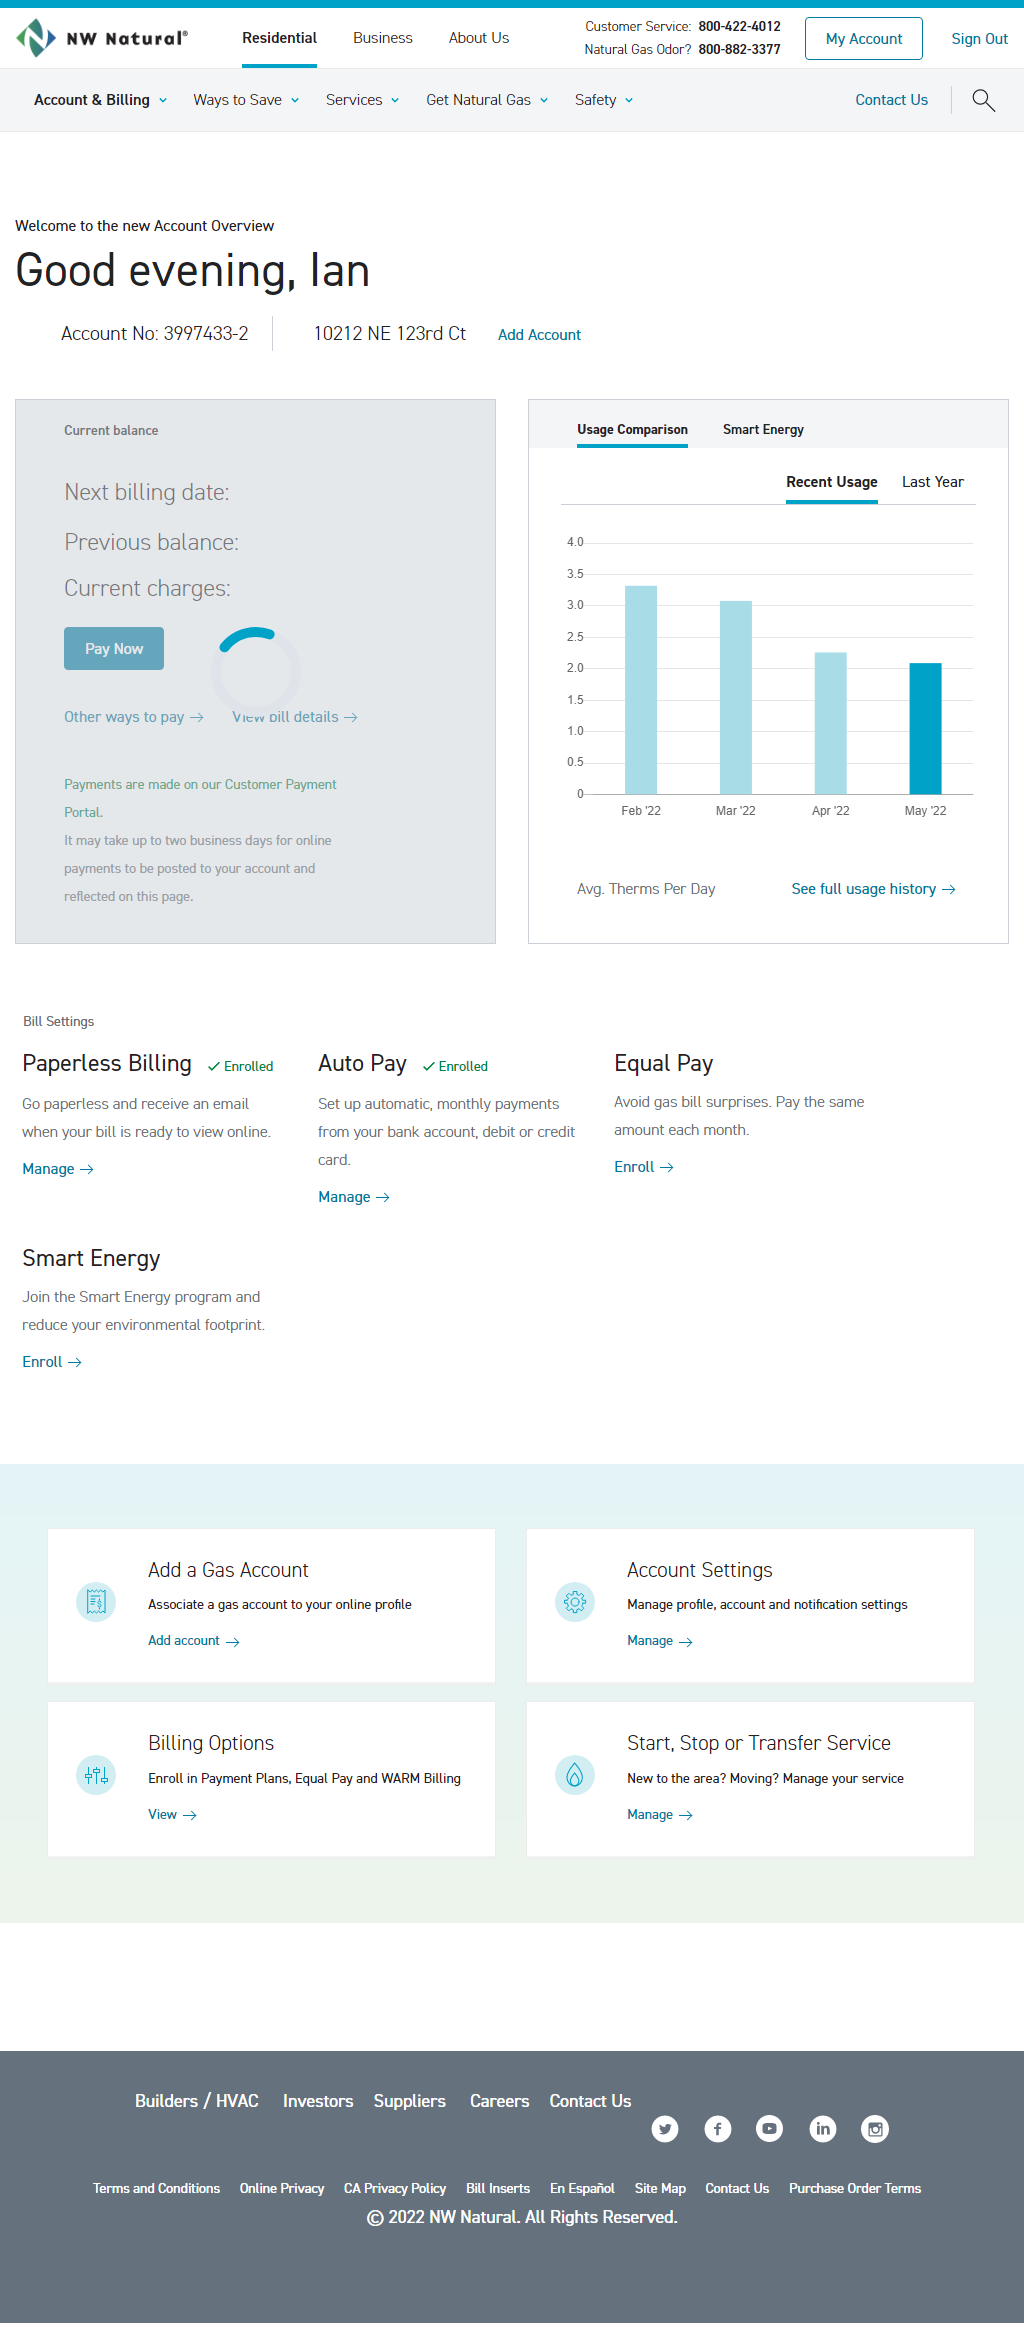
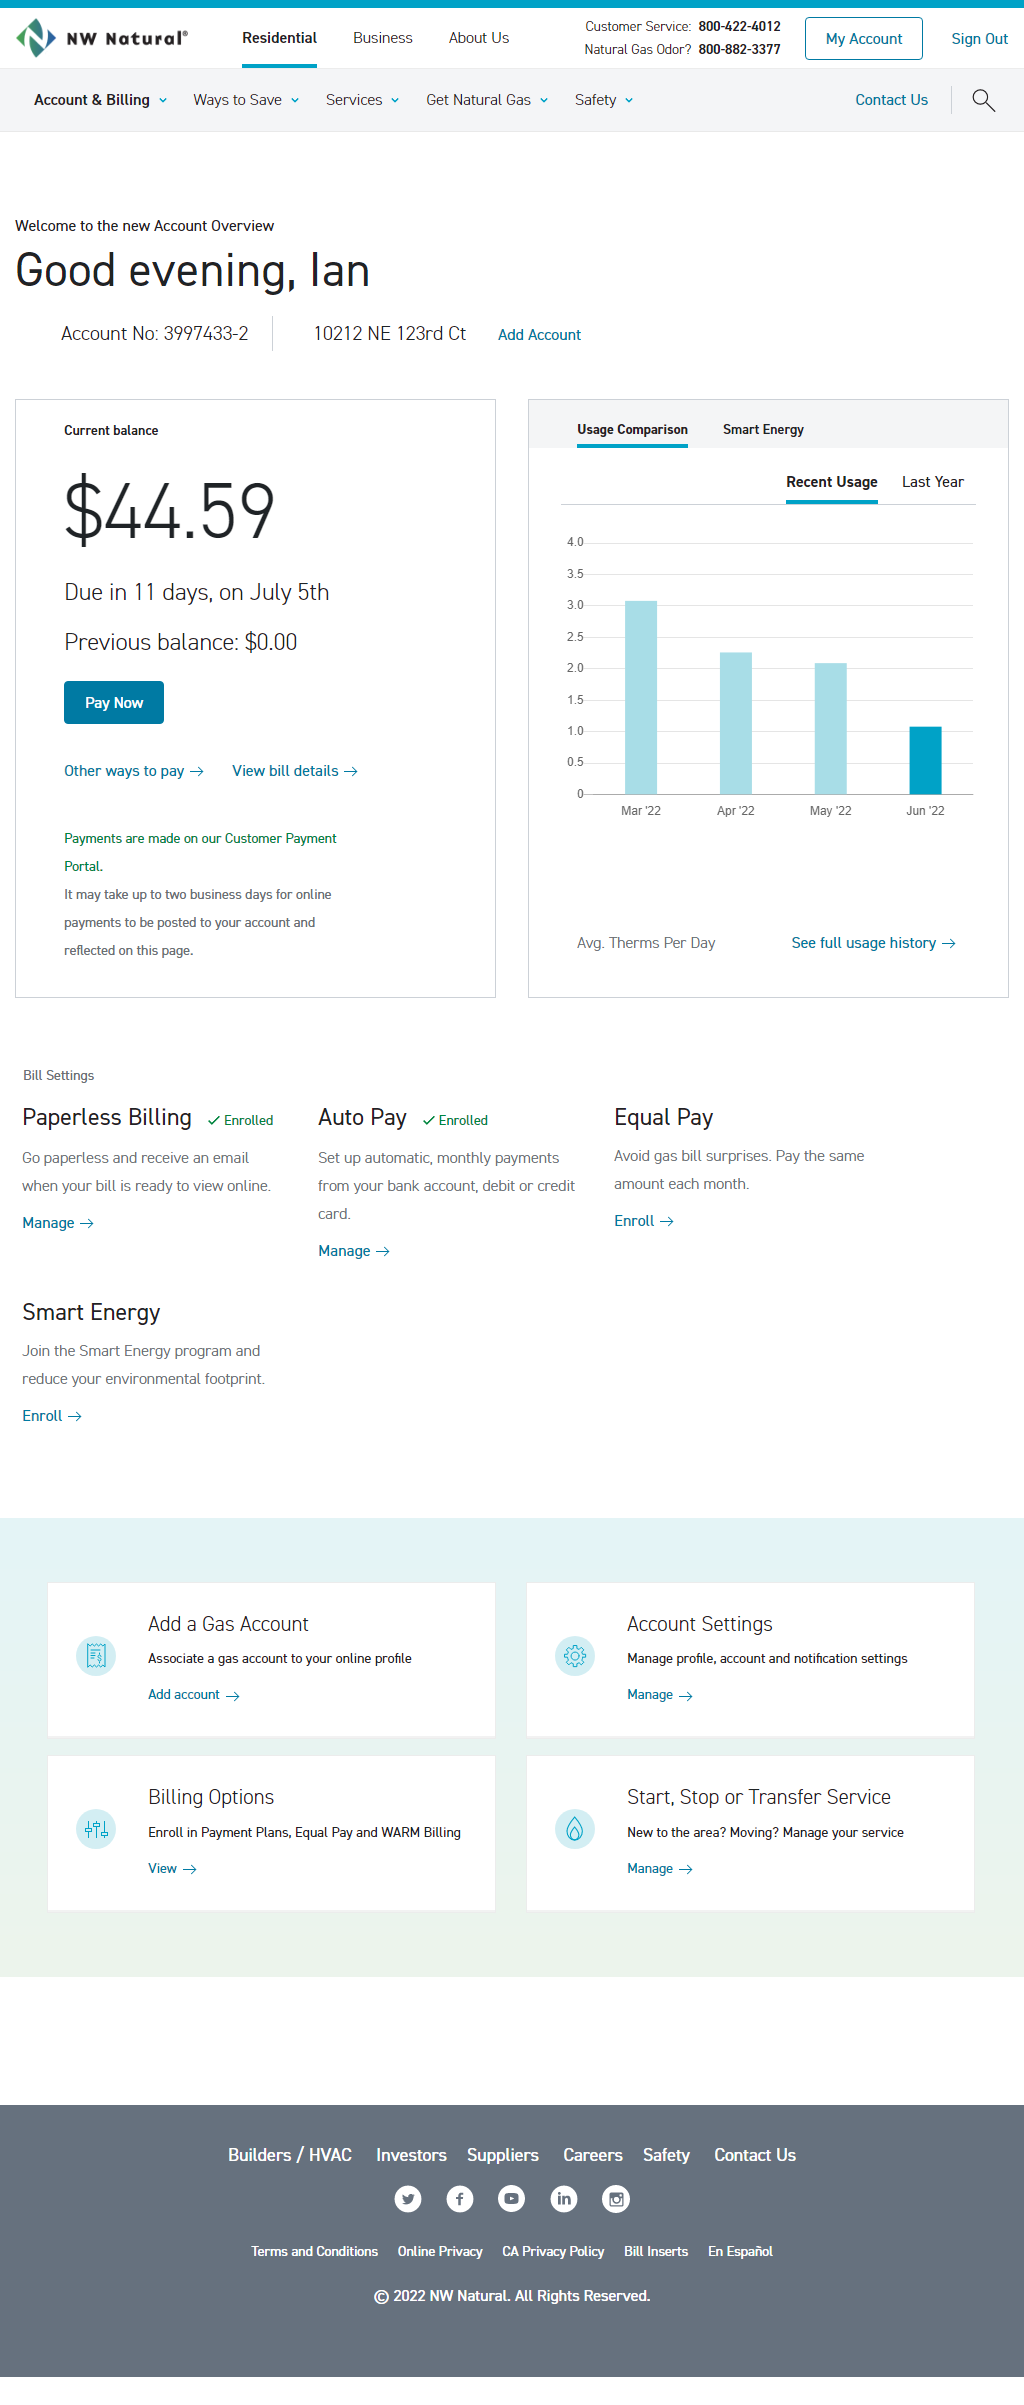
Connecting and updating db with account value

diff --git a/browser/mainPuppeteer.js b/browser/mainPuppeteer.js
@@ -5,42 +5,48 @@ const StealthPlugin = require('puppeteer-extra-plugin-stealth')
 puppeteer.use(StealthPlugin())
 
 function connect() {
-    // puppeteer usage as normal
-    puppeteer.launch({ headless: true, 'defaultViewport' : { 'width' : 1024, 'height' : 1600 }}).then(async browser => {
-    console.log('Running tests..')
-    const page = await browser.newPage()
-    await page.goto('https://nwnatural.com')
-    await page.waitForTimeout(5000)
-    const button = await page.waitForXPath('//*[@id="nav"]/div[2]/form/button');
-    if (button) {
-        await button.click();
-    } else {
-        throw new Error("Link not found");
-    }
-    await page.waitForTimeout(5000)
-    const usernameInput = await page.waitForSelector('input[name="Username"')
-    const passwordInput = await page.waitForSelector('input[name="Password"')
-    const submitButton = await page.waitForSelector('button[data-testingid="signInButton"]')
-    if (usernameInput && passwordInput) {
-        await page.type('input[name="Username"', "ianlaurapercy@gmail.com")
-        await page.type('input[name="Password"',"0ybXWSc6Su2d8yvcUZ51")
-        await submitButton.click()
-    } else {
-        throw new Error("no input forms")
-    }
+    var value = ""    // puppeteer usage as normal
+    return new Promise((resolve, reject) => {
+        puppeteer.launch({ headless: true, 'defaultViewport': { 'width': 1024, 'height': 1600 } }).then(async browser => {
+            console.log('Running tests..')
+            const page = await browser.newPage()
+            await page.goto('https://nwnatural.com')
+            await page.waitForTimeout(5000)
+            const button = await page.waitForXPath('//*[@id="nav"]/div[2]/form/button');
+            if (button) {
+                await button.click();
+            } else {
+                throw new Error("Link not found");
+            }
+            await page.waitForTimeout(5000)
+            const usernameInput = await page.waitForSelector('input[name="Username"')
+            const passwordInput = await page.waitForSelector('input[name="Password"')
+            const submitButton = await page.waitForSelector('button[data-testingid="signInButton"]')
+            if (usernameInput && passwordInput) {
+                await page.type('input[name="Username"', "ianlaurapercy@gmail.com")
+                await page.type('input[name="Password"', "0ybXWSc6Su2d8yvcUZ51")
+                await submitButton.click()
+            } else {
+                throw new Error("no input forms")
+            }
 
-    await page.waitForTimeout(10000)
-    await page.screenshot({ path: 'what.png', fullPage: true })
-    const amountDue = await page.waitForSelector('div[class^="AmountDue"]')
-    const signOutButton = await page.waitForSelector('button[contains(., "Sign Out")]')
-    if (amountDue) {
-        const value = await amountDue.evaluate(el => el.textContent);
-        console.log(value)
-        await signOutButton.click()
-    }
-    await page.screenshot({ path: 'testresult.png', fullPage: true })
-    await browser.close()
-    console.log(`All done, check the screenshot`)
+            await page.waitForTimeout(60000)
+            await page.screenshot({ path: 'what.png', fullPage: true })
+            const amountDue = await page.waitForXPath('//h1[contains(text(), "$")]', { visible: true })
+            const signOutButton = await page.waitForXPath('//button[contains(text(), "Sign Out")]', { visible: true })
+
+            if (amountDue) {
+                value = await amountDue.evaluate(el => el.textContent);
+                console.log(value)
+                await signOutButton.click()
+            }
+            await page.waitForTimeout(20000)
+            await page.screenshot({ path: 'testresult.png', fullPage: true })
+            await browser.close()
+            console.log(`All done, check the screenshot`)
+            return resolve(value)
+        })
+       
     })
 }
 

diff --git a/db/db_connection.js b/db/db_connection.js
@@ -12,8 +12,15 @@ let client = new Client({
 
 client.connect()
 // function init() {
-//     client.query("INSERT INTO pomegranate.users (id, username, password, email) " + 
-//     "values (1, 'ipercy', 'testing', 'ianpercyor@gmail.com') "
+//     client.query("CREATE TABLE pomegranate.accounts ( " + 
+//     " id serial PRIMARY KEY,  " + 
+//         " user_id INT NOT NULL, " + 
+//         "account_name VARCHAR ( 50 ) NOT NULL, " + 
+//       "  amount_remaining NUMERIC(5,2), " + 
+//       "  FOREIGN KEY (user_id) " + 
+//         "   REFERENCES pomegranate.users (id) " + 
+//           " );"
+    
 // , (err, rows) => {
 //         if (err)
 //             throw err;
@@ -30,9 +37,19 @@ client.connect()
 //     client.end();
 //   });
 
-function loadAllUsers(callback) {
+async function loadAllUsers(callback) {
     return new Promise((resolve, reject) => {
         client.query("SELECT * FROM pomegranate.users", (err, rows) => {
+            if (err)
+                return reject(err)
+            return resolve(rows)
+        })
+    })
+}
+
+async function update(updateValue) {
+    return new Promise((resolve, reject) => {
+        client.query(`INSERT INTO pomegranate.accounts (id, user_id, account_name, amount_due) VALUES (1, 1, 'NW NATURAL', ${updateValue} ) `, (err, rows) => {
             if (err)
                 return reject(err)
             return resolve(rows)
@@ -63,4 +80,4 @@ async function authenticate(userJson) {
     })
 }
 
-module.exports = { loadAllUsers, authenticate }
+module.exports = { loadAllUsers, authenticate, update }

diff --git a/routes/mainRoutes.js b/routes/mainRoutes.js
@@ -14,10 +14,20 @@ router.get("/", (req, res) => {
     res.send("Welcome to the main page")
 })
 
-router.post("/connect", (req, res) => {
+router.post("/connect", async (req, res) => {
     console.log(req.body)
-    mainPuppeteer.connect()
-    res.send("Time to connect")
+    var value = await mainPuppeteer.connect()
+
+    if (value !== "") {
+        console.log("value found" )
+        var number = Number(value.replace(/[^0-9.-]+/g,""));
+        var result = await db.update(number)
+        console.log(result)
+    }
+    else{
+        console.log("value not found")
+    }
+
 })
 
 router.get("/load", async (req, res) => {
